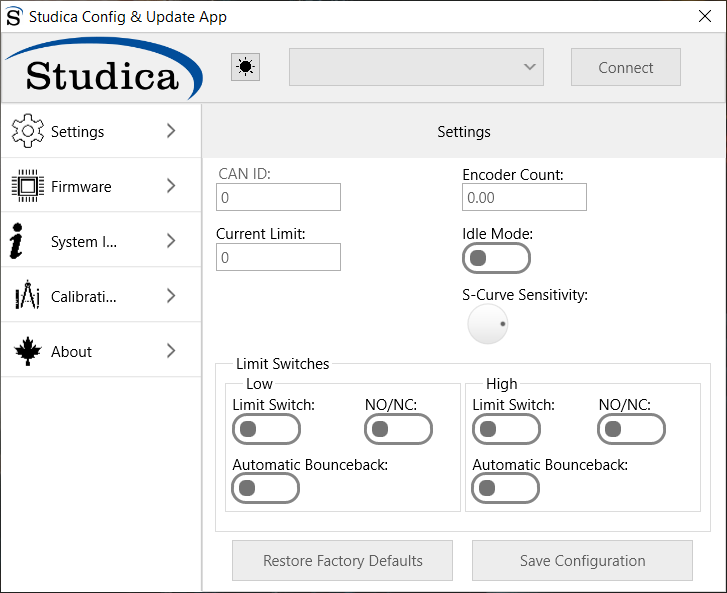
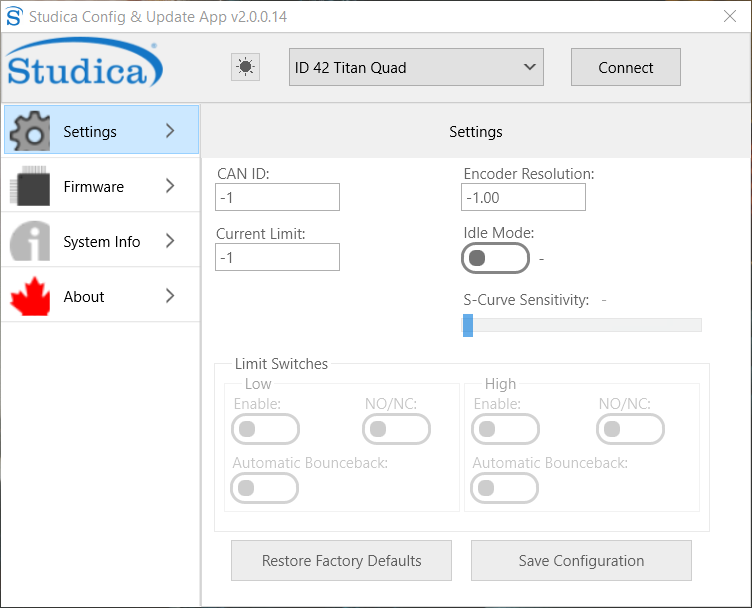
Updated images and added some more Titan docs

diff --git a/source/docs/Titan/using-the-update-app.rst b/source/docs/Titan/using-the-update-app.rst
@@ -1,17 +1,17 @@
 Using the Update App
 ====================
 
-The Studica Update and Config app was created to allow users to get the most out of their Titan motor controller. 
+The Studica Update and Config app was created to allow users to get the most out of their TitanQuad motor controller. 
 
 Settings
 --------
 
-The landing or Settings page allows for the setting of the custom CAN ID, Encoder Ticks per rev for the motor your using, current limit for the motors, Motor idle mode, S-curve sensitivity and limit switch control. 
+The landing or Settings page allows for the setting of the custom CAN ID, Encoder Ticks per rev for the motor you are using, the current limit for the motors, Motor idle mode, S-curve sensitivity, and limit switch control. 
 
-.. figure:: images/using-the-update-app-2.png
+.. figure:: images/using-the-update-app-1.png
    :align: center
 
-When a valid device is found by the app it will be displayed in the drop down menu. 
+When the app finds a valid device, it will be displayed in the drop-down menu. 
 
 .. note:: The default CAN ID out of the box is 42. 
 
@@ -20,10 +20,10 @@ CAN ID
 
 The CAN ID is the unique id of the motor controller on the CAN bus. The valid range is 1 - 62. 
 
-Encoder Count
-^^^^^^^^^^^^^
+Encoder Resolution
+^^^^^^^^^^^^^^^^^^
 
-Is the counts per revolution of the encoder you are using on your motor. For example the Studica Maverick has a CPR of 732, whereas the Pitsco Torquenado has a CPR of 1440. 
+Is the counts per revolution of the encoder you are using on your motor. For example, the Studica Maverick has a CPR of 732, whereas the Pitsco Torquenado has a CPR of 1440. 
 
 Current Limit
 ^^^^^^^^^^^^^
@@ -33,7 +33,7 @@ This is the limit you want for the amount of current to flow to the motors. Vali
 Idle Mode
 ^^^^^^^^^
 
-When false this sets the motors to coast mode and when high the motors are in break mode.
+When false, this sets the motors to coast mode, and when high, the motors are in break mode.
 
 S-Curve Sensitivity
 ^^^^^^^^^^^^^^^^^^^
@@ -46,29 +46,59 @@ Limit Switches
 Control panel for limit switch configuration. There are two limit switch ports per motor on the Titan, a high and a low. 
 
 Parameters
--  Limit Switch - Simple enable and disable
--  NO/NC - let the microcontroller know if you are using a NO contact or a NC contact (inverts the output)
--  Automatic Bounce back - upon making contact with the limit switch the motor will move in the opposite direction just a little bit.
+
+-  **Enable** - simple enable and disable
+-  **NO/NC**  - let the microcontroller know if you are using a NO contact or a NC contact (inverts the output)
+-  **Automatic Bounce back** - upon making contact with the limit switch, the motor will move in the opposite direction just a bit.
 
 Save Configuration 
 ^^^^^^^^^^^^^^^^^^
 
-Saves the current settings to the Titan.
+Saves the current settings to the TitanQuad. A prompt will confirm that settings have been saved.
+
+.. image:: images/using-the-update-app-12.png
+   :align: center
 
 Restore Factory Defaults
 ^^^^^^^^^^^^^^^^^^^^^^^^
 
-Will restore the Titan back to it's recommended factory settings. 
+Will restore the TitanQuad to it's recommended factory settings. 
 
 Firmware
 --------
 
-Every so often a firmware upgrade is required to fix a bug or include new functionality. 
+.. important:: Internet connection is required to download firmware!
+
+Every so often, a firmware upgrade is required to fix a bug or include new functionality. 
 
 .. figure:: images/using-the-update-app-3.png
    :align: center
    
-The firmware upgrade tab will search for an update online and install if there is one. 
+To update the firmware, navigate to the firmware tab and then hit check for updates.
+
+.. note:: If the button is greyed out, you are not connected to the TitanQuad, hit connect in the upper right-hand corner.
+
+A prompt will appear as it checks the version on the TitanQuad to the server version. 
+
+.. figure:: images/using-the-update-app-8.png
+   :align: center
+   
+If there is an update, another prompt will ask if you would like to download the new firmware.
+
+.. figure:: images/using-the-update-app-9.png
+   :align: center
+   
+Once downloaded, you can hit ``Upgrade Firmware`` to flash the new firmware to the TitanQuad. 
+
+.. figure:: images/using-the-update-app-10.png
+   :align: center
+
+.. note:: To tell if the TitanQuad is in update mode check to see if the power indicators are green and the status light is off.
+
+When complete, there will be an indicator saying that the firmware upgraded was completed.
+
+.. figure:: images/using-the-update-app-11.png
+   :align: center
 
 System Info
 -----------
@@ -80,20 +110,10 @@ System Information is used for diagnosing and contacting support.
    
 .. important:: The Unique ID is required for any support tickets. 
 
-Calibration
------------
-
-The calibration tab is used to tune PID constants for expected results.
-
-.. figure:: images/using-the-update-app-5.png
-   :align: center
-   
-.. note:: This tab is non functional currently.
-
 About
 -----
 
-Houses the basic information about the app.
+Necessary information about the app.
 
 .. figure:: images/using-the-update-app-6.png
    :align: center

diff --git a/source/docs/Titan/titan.rst b/source/docs/Titan/titan.rst
@@ -1,0 +1,99 @@
+Titan Quad 
+==========
+
+The Titan Quad is a motor controller with four DC motor outputs that operate on the CAN Bus. Developed for World Skills but adapted for other uses. 
+
+Map
+---
+
+.. figure:: images/titan-1.png
+   :align: center
+   :width: 50%
+   
+1. Power input. Input requires a 12VDC battery, and two ports are available connected in parallel. Both ports can be used for increasing the capacity or as a battery in, battery out.  
+
+2. Power output. Outputs 12VDC out to other devices such as, VMXpi or Servo Power Block. 
+
+3. Voltage indicators. There is a reverse power indicator (red) that will light up if the voltage is connected in reverse. The other two indicators display the voltage rails 5V and 3.3V.
+
+4. Fusebox. Before voltage can be applied to the motors or power outputs (2), an appropriate fuse must be inserted into the box. Motors take 20A fuses, and power outputs take 5 - 15A fuses.
+
+5. RGB Status Light.
+
+6. DFU USB - used to communicate with the computer for updates and configuration.
+
+7. CAN-BUS Input - High side (yellow) and Low side (green) inputs.
+
+8. M1 - Motor 1 output.
+
+9. M0 - Motor 0 output.
+
+10. M3 - Motor 3 output.
+
+11. M2 - Motor 2 output.
+
+12. Boot - used only when an error occurs, and Titan cannot communicate with the computer and needs a firmware upgrade. 
+
+13. NeoPixel - addressable LED output
+
+14. DotStar - addressable LED output
+
+15. Pin 13/ L for LED microcontroller
+
+16. RX/TX - LEDs for microcontroller
+
+17. LED i2c - com port for microcontroller
+
+18. LED USB - used to communicate with the computer for uploading code
+
+19. Encoder port - Quadrature encoder input
+
+20. Limit H - High limit switch input. (Limits are pulled high and use hardware debouncing)
+
+21. Limit L - Low limit switch input. (Limits are pulled high and use hardware debouncing)
+
+Electrical Characteristics
+--------------------------
+
+.. list-table:: Electrical Characteristics
+   :widths: 30 10 10 10
+   :header-rows: 1
+   :align: center
+   
+   *  - Function
+      - Min
+      - Nom
+      - Max
+   *  - Input Voltage
+      - 10VDC
+      - 12VDC
+      - 14VDC
+   *  - Output Voltage
+      - 10VDC
+      - 12VDC
+      - 14VDC
+   *  - Motor Output Amperage
+      - 0A
+      - 
+      - 20A
+   *  - Motor Frequency
+      - 0Hz
+      - 15.6KHz
+      - 20KHz
+   *  - Encoder Voltage Output
+      - 4.5V
+      - 5V
+      - 5.5V
+   *  - Limit Switch Output
+      - 4.5V
+      - 5V
+      - 5.5V
+   *  - LED Voltage Output
+      - 4.5V
+      - 5V
+      - 5.5V
+   *  - LED Output Amperage
+      - 0A
+      - 
+      - 6A
+      

diff --git a/source/docs/Titan/titan-status-light.rst b/source/docs/Titan/titan-status-light.rst
@@ -12,31 +12,47 @@ Below are the various status light blink codes and the meaning behind them.
      - Blink 1
      - Blink 2
      - Blink 3
-   * - Titan Off
+   * - Titan Off / Update 
      - .. image:: images/titan-status-light-5.png
+         :align: center
      - .. image:: images/titan-status-light-5.png
+         :align: center
      - .. image:: images/titan-status-light-5.png
+         :align: center
    * - No Communication 
      - .. image:: images/titan-status-light-1.png
+         :align: center
      - .. image:: images/titan-status-light-1.png
+         :align: center
      - .. image:: images/titan-status-light-1.png
+         :align: center
    * - CAN Detected, Robot Disabled 
      - .. image:: images/titan-status-light-1.png
+         :align: center
      - .. image:: images/titan-status-light-2.png
+         :align: center
      - .. image:: images/titan-status-light-3.png 
+         :align: center
    * - CAN Detected, Robot Enabled 
      - .. image:: images/titan-status-light-4.png
+         :align: center
      - .. image:: images/titan-status-light-4.png
+         :align: center
      - .. image:: images/titan-status-light-4.png
+         :align: center
    * - Fault Detected  
      - .. image:: images/titan-status-light-6.png
+         :align: center
      - .. image:: images/titan-status-light-6.png
+         :align: center
      - .. image:: images/titan-status-light-6.png
+         :align: center
      
-Titan Off
----------
+Titan Off / Update
+------------------
 
-When the Titan is off, there will be no flashing light. If the Titan is on, and the light is off, there could be a problem with the microcontroller or the LED. 
+When the Titan is off, there will be no flashing light. The light will also be off if set to update mode.  If the Titan is on, not in update mode, and the light is off, there could be a problem with the microcontroller or the LED. 
+
 
 No Communication
 ----------------

diff --git a/source/docs/Titan/download-update-app.rst b/source/docs/Titan/download-update-app.rst
@@ -1,7 +1,7 @@
 Download Update App
 ===================
 
-To download the latest update app ``V1.0`` click `here <https://www.studica.com/downloads/Studica-Robotics/FRC-WSR/Titan/SCU/SCUSetup.exe>`__.
+To download the latest update app ``V2.0.0.14`` click `here <https://www.studica.com/downloads/Studica-Robotics/FRC-WSR/Titan/SCU/SCUSetup.exe>`__.
 
 .. important:: This app is still in early development and there will be bugs. Report any bugs here(link not made yet).
 

diff --git a/source/index.rst b/source/index.rst
@@ -34,6 +34,7 @@ Welcome to the Studica Robotics documentation page. Here you will find lots of i
    :maxdepth: 1
    :caption: Titan
    
+   docs/Titan/titan
    docs/Titan/download-update-app
    docs/Titan/using-the-update-app
    docs/Titan/titan-status-light
